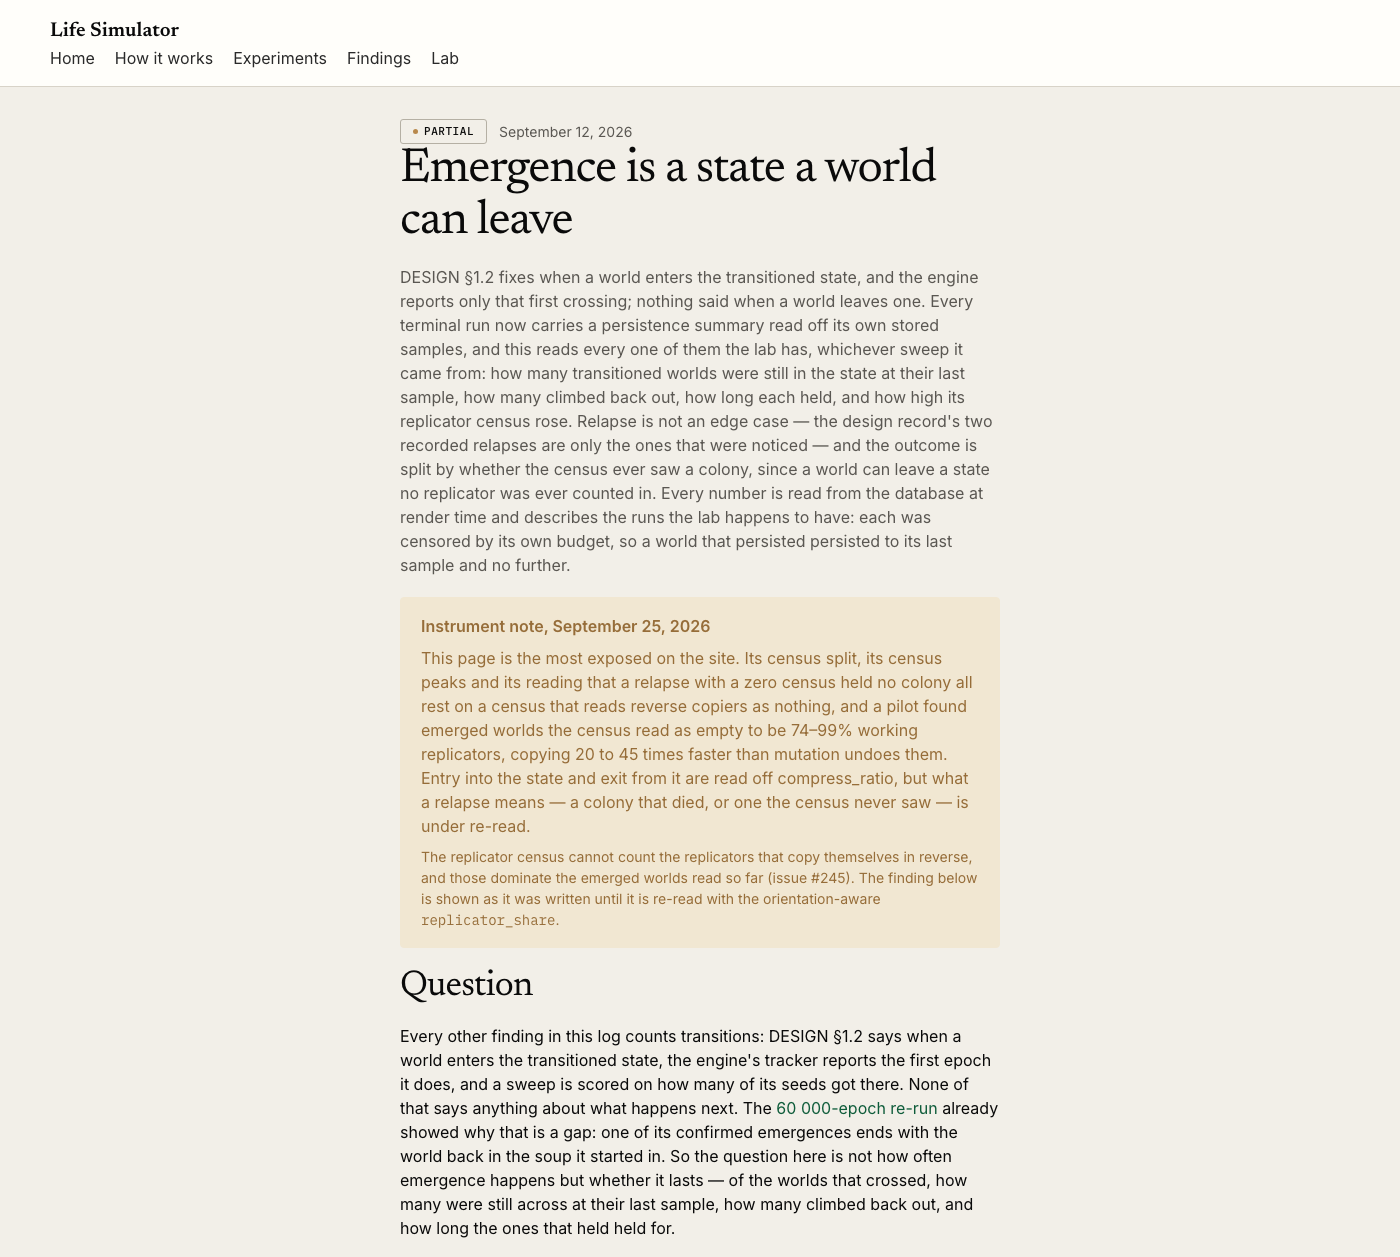
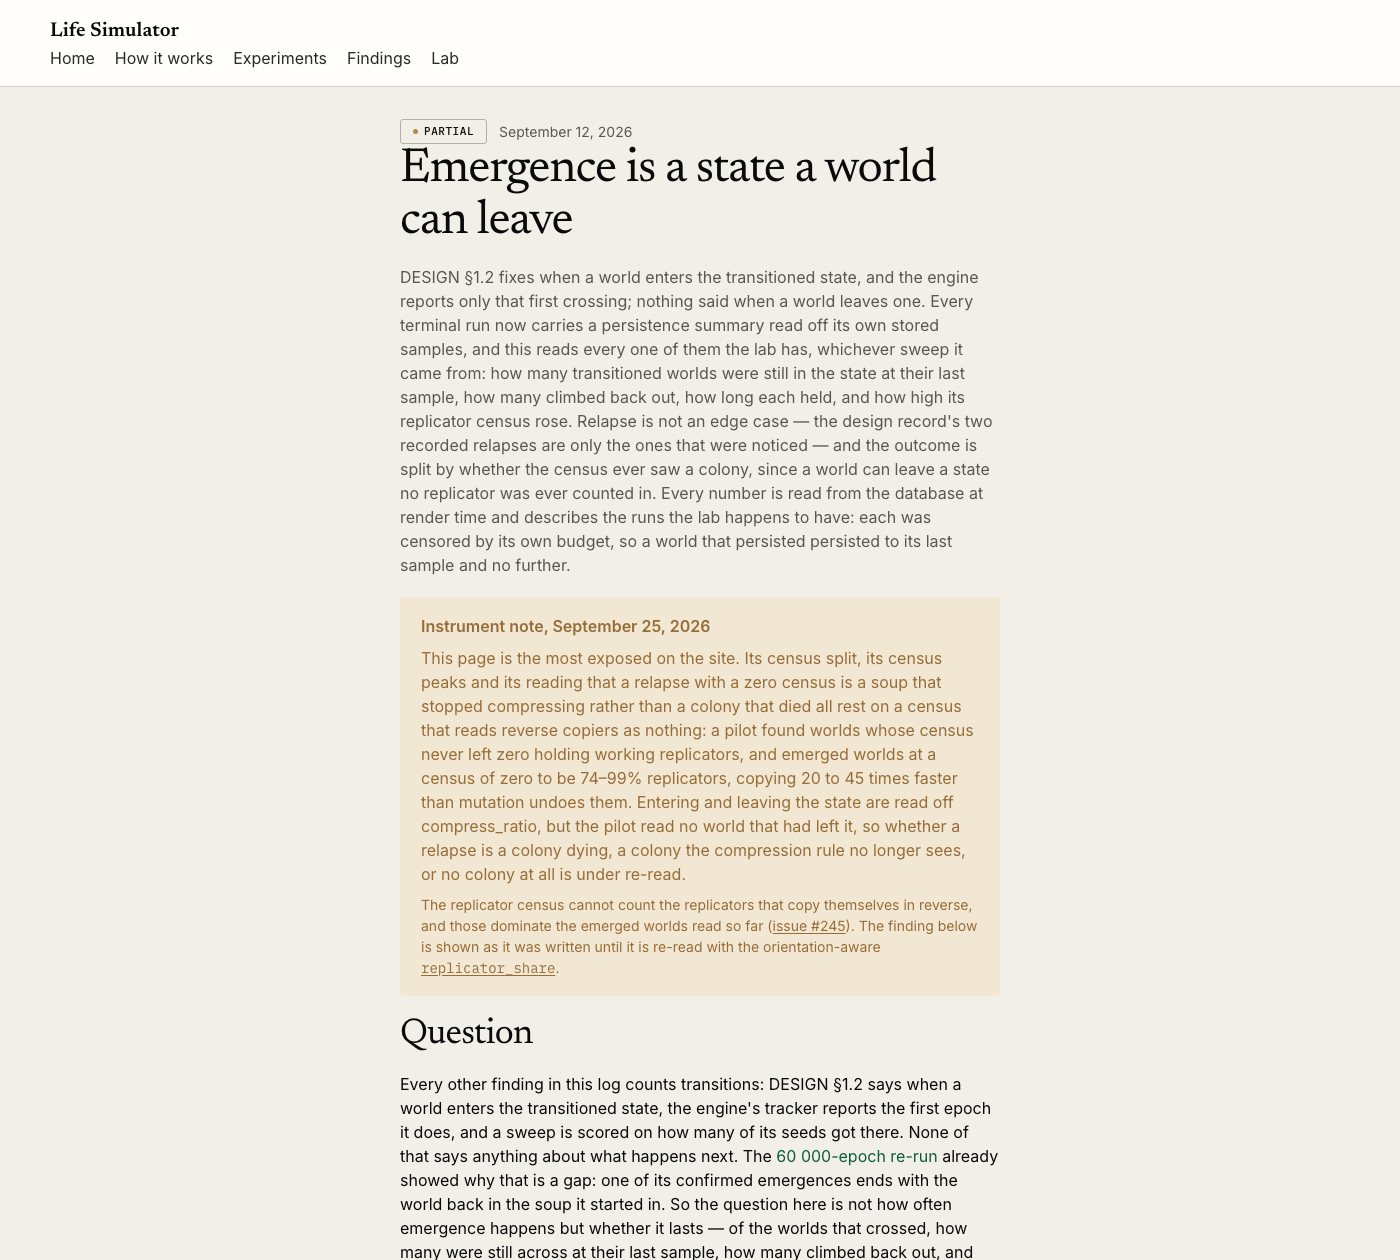
Correct the instrument notes against the evidence
The dominant readings fall back to the commonest tape when no tested tape
passes, so the complexity notes no longer say they only see same-orientation
replicators. The host arms never flagged, so their silence does not rest on
the census. The bff-control note separates the zero-mutation world the pilot
read from the one the page describes, the emergence note says the pilot read
no relapsed world, and the long-horizon note names the lower cutoff as
exposed. The index badge moves to the solid variant so it no longer reads as
the partial status, and the links in the note are underlined.

diff --git a/app/assets/stylesheets/site.css b/app/assets/stylesheets/site.css
@@ -497,8 +497,16 @@ ul.chart-legend li {
 
 .instrument-note a {
   color: inherit;
+  text-decoration: underline;
+  text-underline-offset: 2px;
 }
 
-.instrument-note-badge {
+.instrument-note-badge,
+.instrument-note-badge:hover {
+  color: var(--paper);
   text-decoration: none;
+}
+
+.instrument-note-badge:hover {
+  background: var(--ink-secondary);
 }

diff --git a/app/models/findings/instrument_notes.rb b/app/models/findings/instrument_notes.rb
@@ -13,56 +13,66 @@ module Findings
 
     NOTES = {
       "complexity-under-contest" =>
-        "The arm-by-arm reading of whether complexity keeps rising is exposed: " \
+        "The arm-by-arm reading of whether complexity keeps rising is exposed. " \
         "dominant_instruction_count is read off the commonest tape that passes the " \
-        "same-orientation replicator test, and the conserved core compares aligned bytes, so " \
-        "neither sees the reverse copiers that dominate these worlds. Which runs emerged " \
-        "stands for now: read with the orientation-aware detector, all 1 290 finished runs " \
-        "of this sweep that did not emerge hold no replicator in their last stored world, " \
-        "and in 24 of the 27 that did, at least half of its sampled cells replicate. Whether " \
-        "theft evolved does not depend on the census.",
+        "same-orientation replicator test where one does and off the commonest tape of the " \
+        "world where none does, so a run's series can switch between two different tapes, " \
+        "and the conserved core compares aligned bytes, which a population of reverse " \
+        "copiers and their reverses confounds. Which runs emerged stands for now: read with " \
+        "the orientation-aware detector, every one of the 1 290 finished runs of this sweep " \
+        "that did not emerge shows a replicator_share of 0 in its last stored world, and 24 " \
+        "of the 27 that did show 0.5 or more. Whether theft evolved does not rest on the census.",
       "complexity-under-asymmetry" =>
-        "That nothing emerged under the host interaction rests on the emergence gate, which " \
-        "an orientation-aware check supports on sweep 9 only and has not yet re-read here. " \
-        "The concat controls' reference readings — dominant_instruction_count, the " \
-        "conserved core and the distinct_lineages secondary — are exposed: they read the " \
-        "commonest same-orientation replicator or compare aligned bytes, and the " \
-        "replicators of these worlds copy themselves in reverse.",
+        "That nothing emerged under the host interaction does not rest on the census: the " \
+        "detector never flagged a host run. The concat controls' reference readings are " \
+        "exposed: dominant_instruction_count is read off the commonest tape that passes the " \
+        "same-orientation replicator test where one does and off the commonest tape of the " \
+        "world where none does, the conserved core and distinct_lineages compare aligned " \
+        "bytes, and a pilot found these same worlds, run as sweep 9's control, to be mostly " \
+        "replicators that copy themselves in reverse.",
       "complexity-keeps-rising" =>
-        "The three verdicts are exposed: they are read off dominant_instruction_count, " \
-        "taken from the commonest tape that passes the same-orientation replicator test, " \
-        "and off distinct_lineages, which follows descent by comparing aligned bytes, and " \
-        "neither sees the reverse copiers that dominate emerged worlds. How often each arm " \
-        "emerged stands for now, though an orientation-aware check supports the emergence " \
-        "gate on sweep 9 only. The comparison of the two detector rules rests on " \
-        "compress_ratio alone and is unaffected.",
+        "Every verdict on this page is exposed. dominant_instruction_count is read off the " \
+        "commonest tape that passes the same-orientation replicator test where one does and " \
+        "off the commonest tape of the world where none does, so a run's series can switch " \
+        "between two different tapes, and distinct_lineages follows descent by comparing " \
+        "aligned bytes, which a population of reverse copiers and their reverses confounds. " \
+        "How often each arm emerged stands for now, though an orientation-aware check has " \
+        "supported the emergence gate on sweep 9 only; the comparison of the two detector " \
+        "rules rests on compress_ratio and is unaffected.",
       "copy-cost-adaptation" =>
         "Every copy cost on this page is exposed. It is priced on the commonest of the " \
         "sixteen tested tapes that passes the same-orientation replicator test, so it can " \
         "only price a palindrome or a forward copier, and the replicators that dominate " \
         "emerged worlds copy themselves in reverse. Which runs transitioned is the " \
-        "detector's and is not in question; what their cost series say is under re-read.",
+        "detector's and does not rest on the census; what their cost series say is under " \
+        "re-read.",
       "replicator-complexity-plateau" =>
-        "The lengths and instruction counts on this page are exposed: they are read off the " \
+        "The lengths and instruction counts on this page are exposed. They are read off the " \
         "commonest of the sixteen tested tapes that passes the same-orientation replicator " \
         "test, which in an emerged world can be a rare palindrome rather than the reverse " \
-        "copier holding most of its cells. Which runs count as emerged stands for now, " \
-        "though an orientation-aware check supports the emergence gate on sweep 9 only.",
+        "copier holding most of its cells, and, on samples recorded since September 15, " \
+        "off the commonest tape of the world where none passes, so a run's series can " \
+        "switch between two different tapes. Which runs count as emerged stands for now, " \
+        "though an orientation-aware check has supported the emergence gate on sweep 9 only.",
       "emergence-can-be-left" =>
         "This page is the most exposed on the site. Its census split, its census peaks and " \
-        "its reading that a relapse with a zero census held no colony all rest on a census " \
-        "that reads reverse copiers as nothing, and a pilot found emerged worlds the census " \
-        "read as empty to be 74–99% working replicators, copying 20 to 45 times faster than " \
-        "mutation undoes them. Entry into the state and exit from it are read off " \
-        "compress_ratio, but what a relapse means — a colony that died, or one the census " \
-        "never saw — is under re-read.",
+        "its reading that a relapse with a zero census is a soup that stopped compressing " \
+        "rather than a colony that died all rest on a census that reads reverse copiers as " \
+        "nothing: a pilot found worlds whose census never left zero holding working " \
+        "replicators, and emerged worlds at a census of zero to be 74–99% replicators, " \
+        "copying 20 to 45 times faster than mutation undoes them. Entering and leaving the " \
+        "state are read off compress_ratio, but the pilot read no world that had left it, " \
+        "so whether a relapse is a colony dying, a colony the compression rule no longer " \
+        "sees, or no colony at all is under re-read.",
       "mutation-rate-long-horizon" =>
-        "Which runs the detector flagged, and when, rests on compress_ratio and stands. The " \
-        "census readings are exposed: the peak counts, the runs read as flagged with an " \
-        "empty census, and the reading that a confirmed lineage dissolved all rest on a " \
-        "census that cannot count replicators copying in reverse. Census-confirmed " \
-        "emergence stands for now, though an orientation-aware check supports it on " \
-        "sweep 9 only.",
+        "Which runs the detector flagged, and when, rests on compress_ratio and stands. " \
+        "Exposed: the census peaks and the two runs read as flagged with an empty census, " \
+        "and with them the lower cutoff, since the lowest arm's one flagged run is one of " \
+        "the two; the census cannot count replicators that copy in reverse, and whether " \
+        "the confirmed lineage that fell back to a soup's compress_ratio left no replicator " \
+        "behind is under re-read. The six census-confirmed runs stand for now, a census " \
+        "positive being a tape that copies itself, though an orientation-aware check has " \
+        "supported the emergence gate on sweep 9 only.",
       "mutation-rate-window" =>
         "The transition counts per arm, the missing window and the Fisher test rest on the " \
         "detector and stand, and the ordering of the soup floor rests on compress_ratio " \
@@ -71,12 +81,14 @@ module Findings
         "The census cannot count replicators that copy in reverse, and the census " \
         "positives on record are palindromes.",
       "bff-control" =>
-        "Exposed: the census readings, and with them the reading that the zero-mutation " \
-        "control's collapse held no replicator. A pilot read stored worlds of this control " \
-        "as working reverse copiers at a census of zero — 78% and 97% of the cells of two " \
-        "mutated worlds, 25% of a zero-mutation one. The transition signature in the tape " \
-        "statistics rests on compress_ratio and stands; the rescored census counts are " \
-        "under re-read as a measure of how many replicators those worlds held.",
+        "Exposed: the census readings as a count of replicators, and this page's reasoning " \
+        "that with no mutation nothing that replicates can emerge. A pilot read three of " \
+        "this control's last stored worlds, each at a census of zero, and found working " \
+        "reverse copiers in 78% and 97% of the cells of two mutated worlds, and in 25% of " \
+        "a zero-mutation world whose compress_ratio had collapsed too. That world is not " \
+        "the one this page describes, which fell to two byte values, was not in the pilot " \
+        "and is under re-read; the transition signature in the tape statistics does not " \
+        "rest on the census and stands.",
       "world-size-scaling" =>
         "The detector counts and the per-cell hazard fitted to them rest on compress_ratio " \
         "and stand, as does the reading of the pre-emergence soup. Exposed: the census " \
